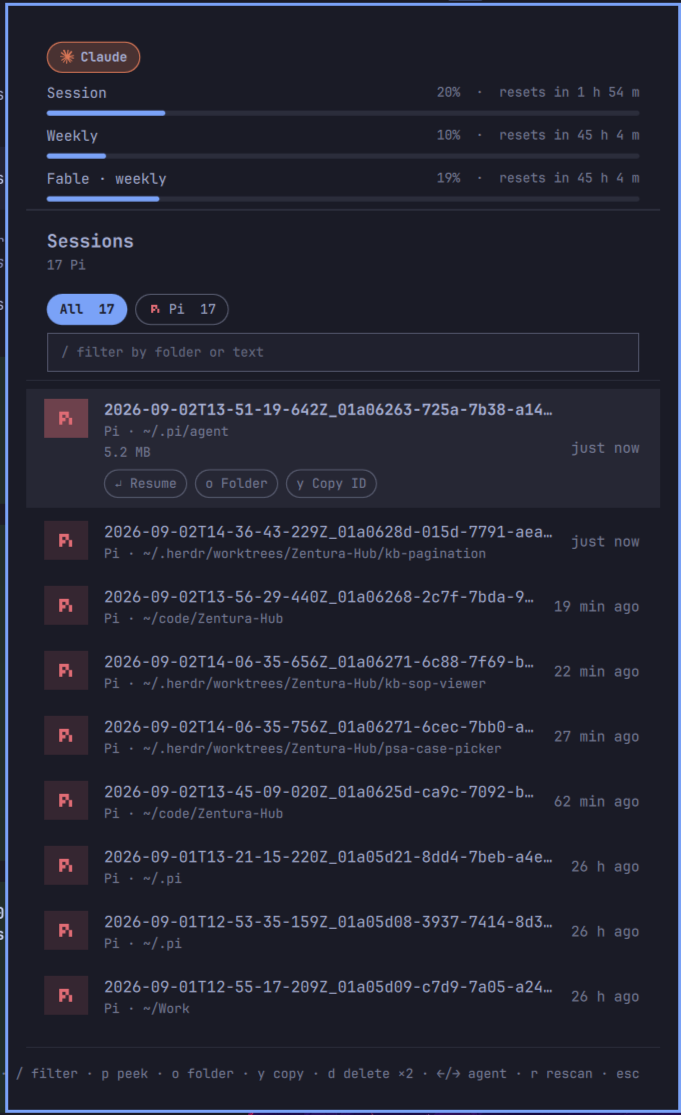
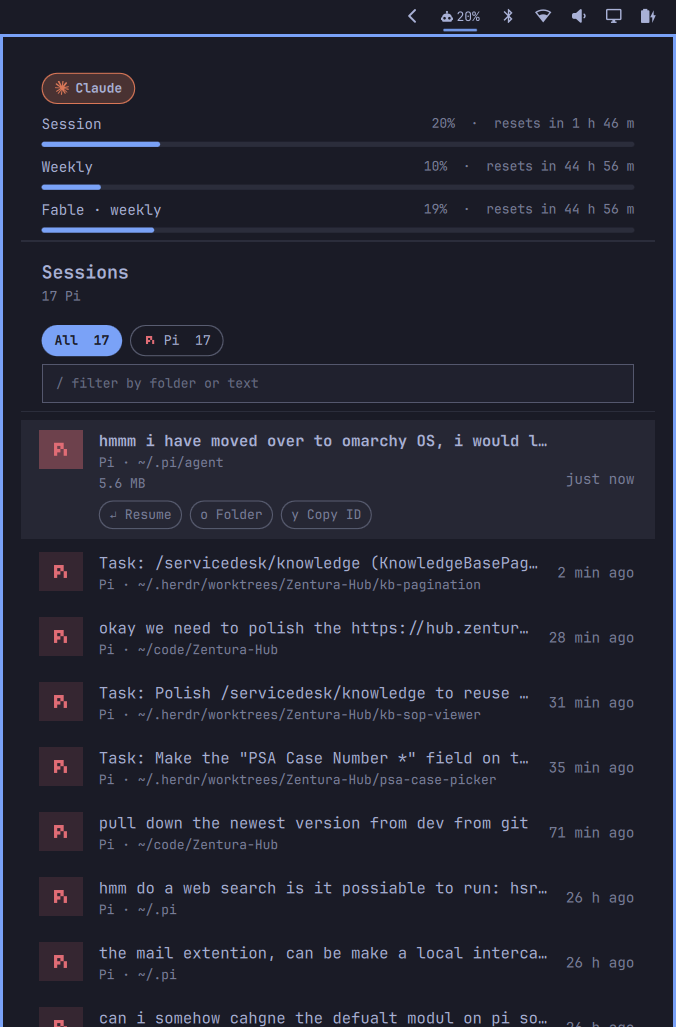
pi titles: extract the opening prompt from block-list content
pi stores user message content as [{type: text, ...}] blocks; the scanner
only accepted plain strings and fell back to the filename. Use the existing
content_text helper, with a regression fixture. Refresh preview.png.

diff --git a/tests/test_list_sessions.py b/tests/test_list_sessions.py
@@ -235,6 +235,22 @@ class ScannerTests(unittest.TestCase):
         self.assertEqual({Path(row["id"]).name for row in rows},
                          {parent.name, fork.name})
 
+    def test_pi_title_from_block_list_content(self):
+        root = Path(".pi/agent/sessions/--tmp-project--")
+        self.write_jsonl(
+            root / "blocks.jsonl",
+            [
+                {"type": "session", "id": "blocks", "cwd": str(self.home)},
+                {"type": "message", "message": {
+                    "role": "user",
+                    "content": [{"type": "text", "text": "Fix the login bug"}],
+                }},
+            ],
+        )
+
+        rows = list(SESSIONS.scan_pi())
+        self.assertEqual(rows[0]["title"], "Fix the login bug")
+
     def test_gemini_reads_json_and_jsonl_without_nested_children(self):
         project_root = self.home / "gemini-project"
         project_root.mkdir()
